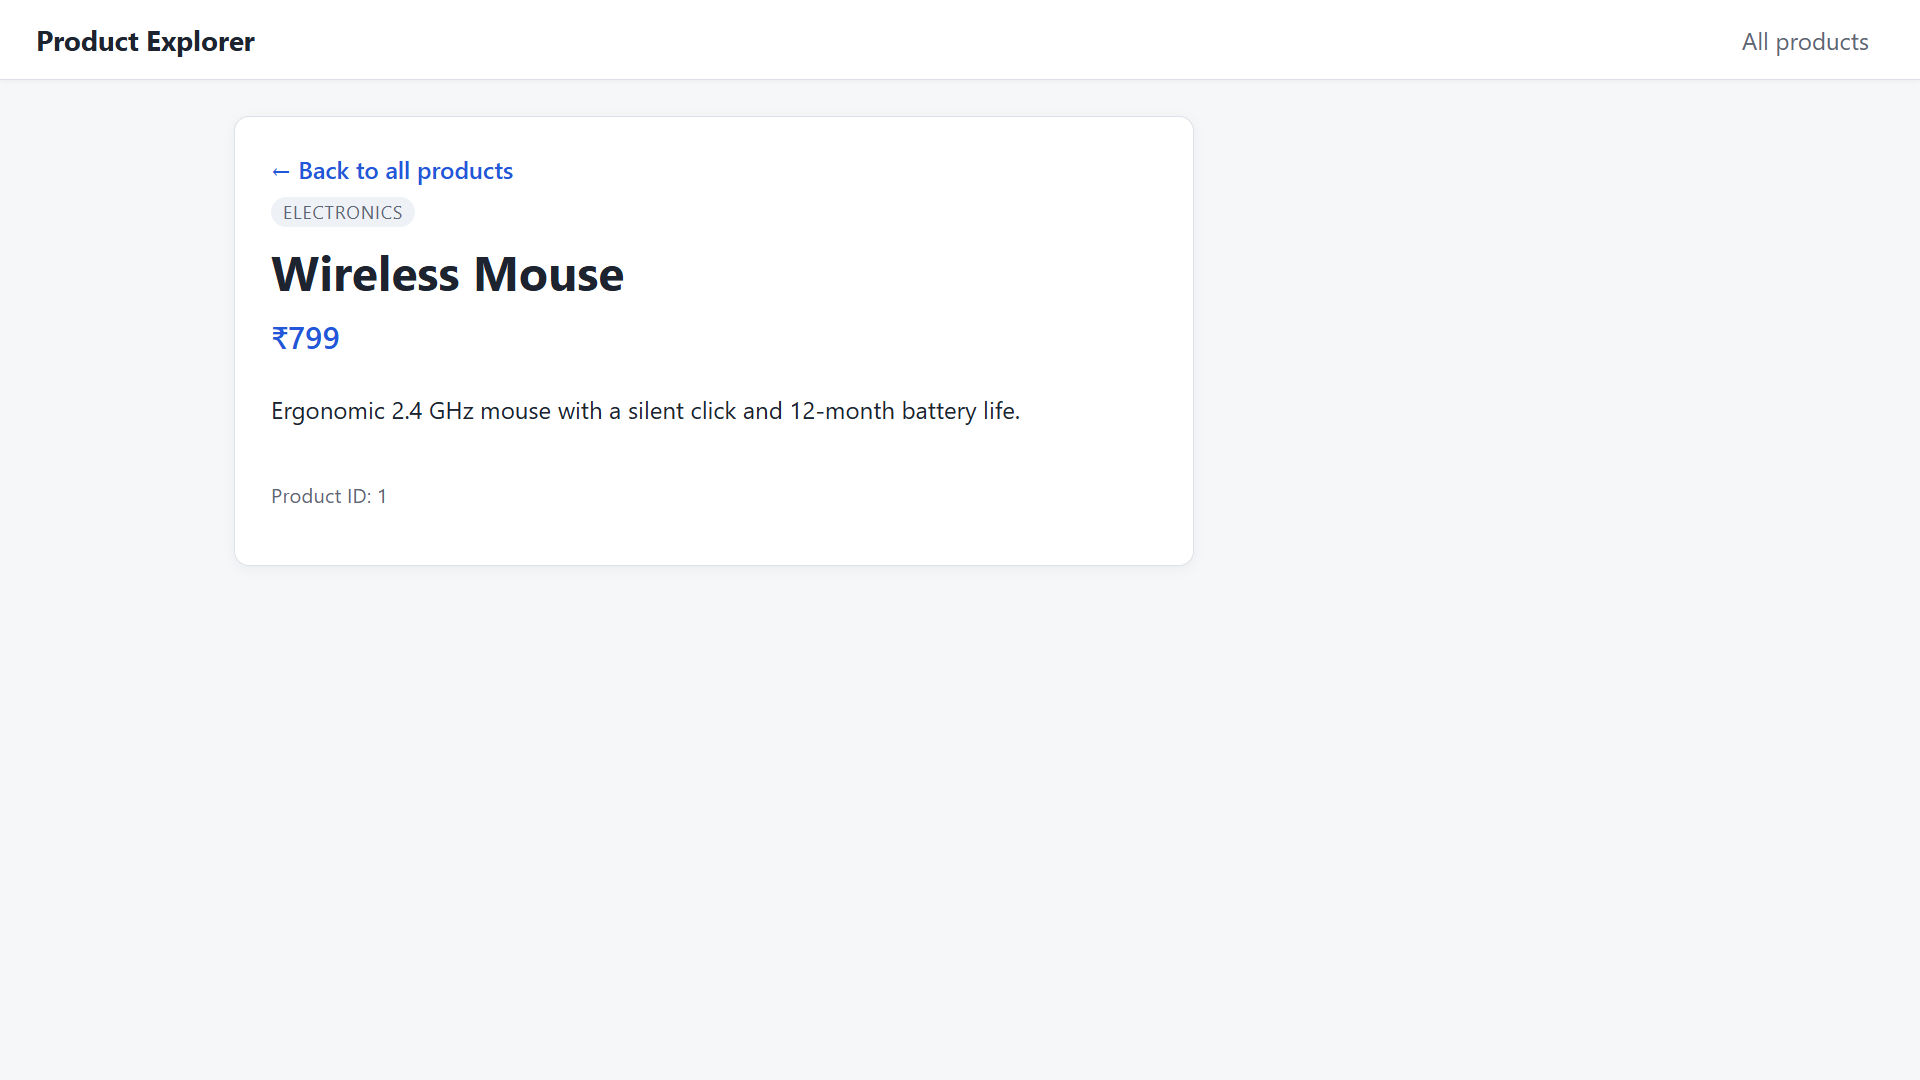
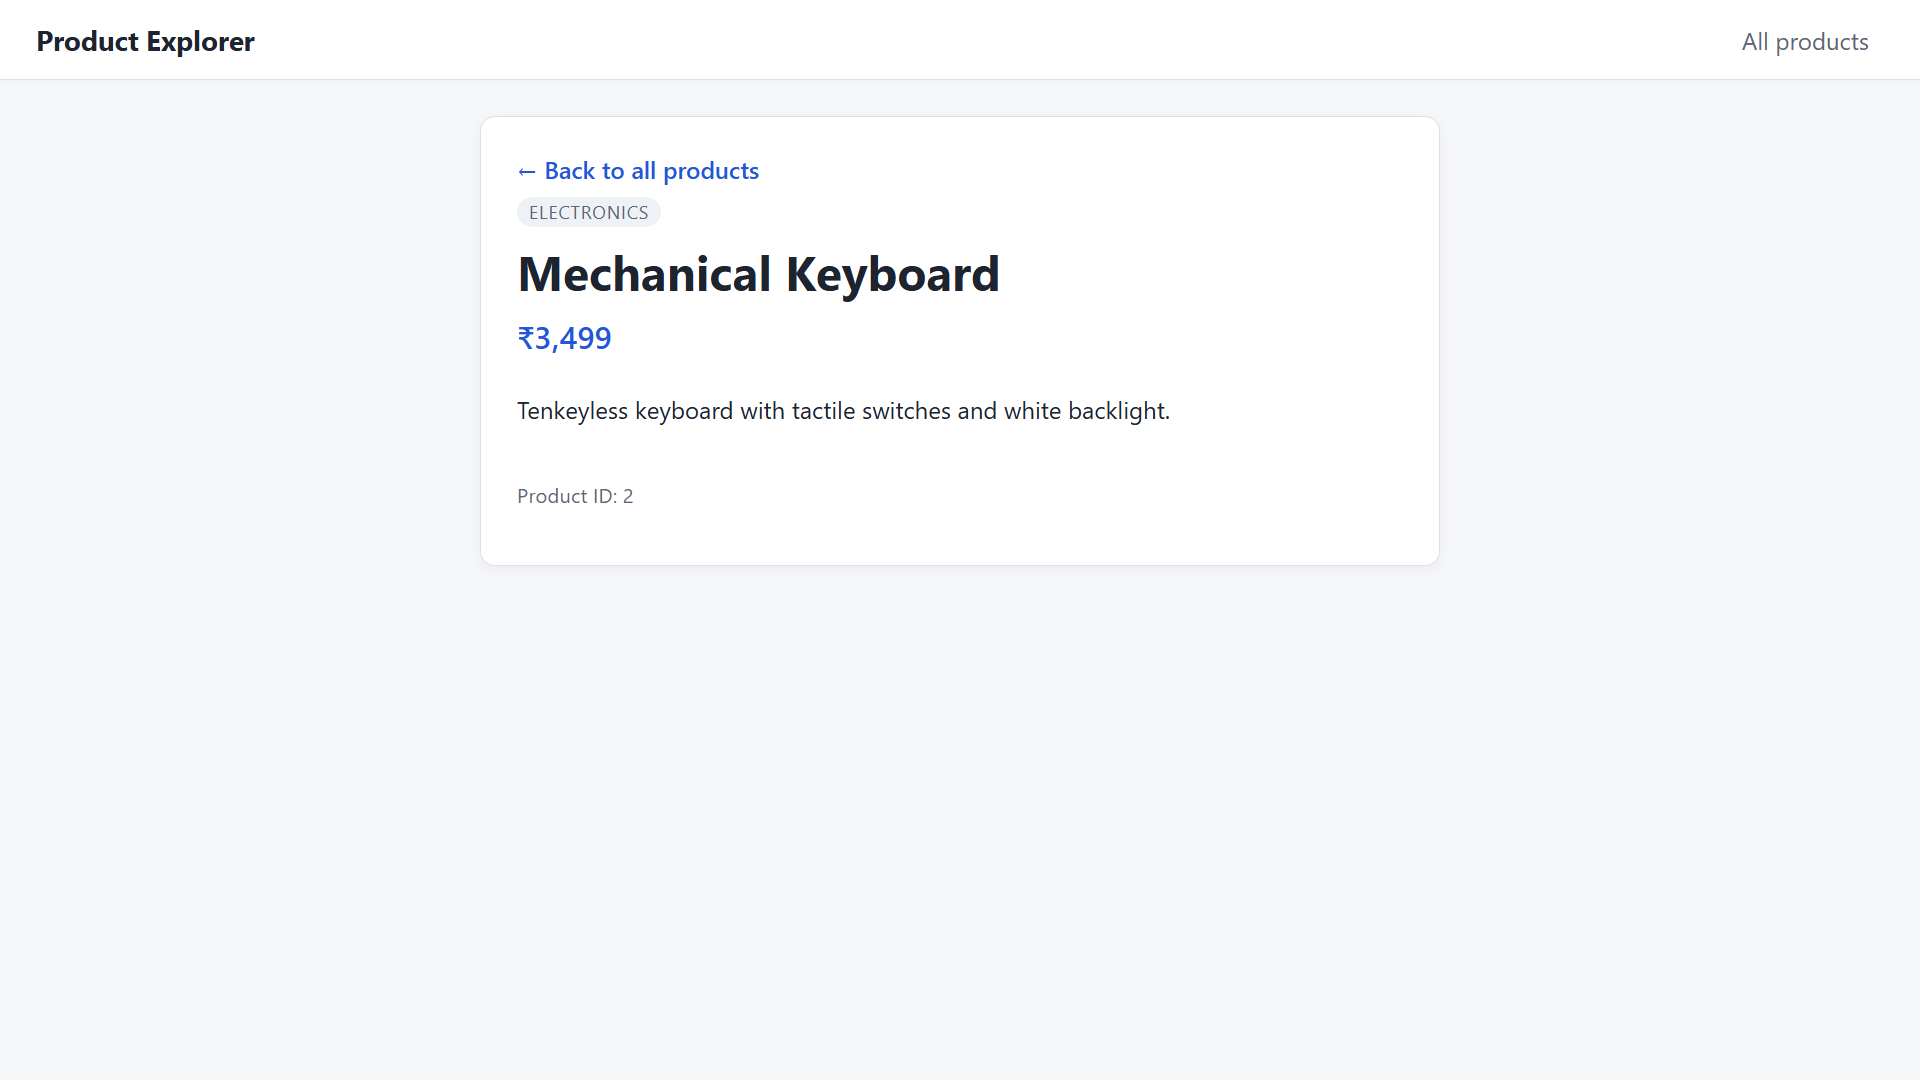
Update screenshots

diff --git a/README.md b/README.md
@@ -9,7 +9,7 @@ A small React app to browse products, search by name, filter by category, and vi
 
 ![Product listing](screenshots/product%20listing.png)
 
-**Product details (`/products/1`)**
+**Product details (`/products/2`)**
 
 ![Product details](screenshots/product%20details%20page.png)
 
